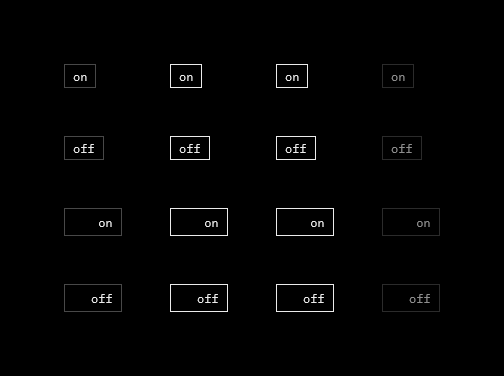
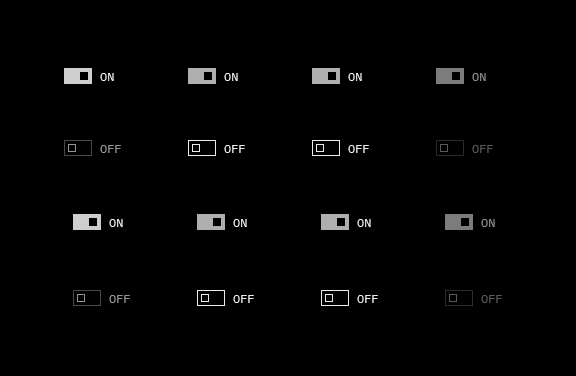
docs: describe the toggle as a square switch and refresh its card pictures
The design dossier's toggle section and the Toggle card now say what the
switch looks like, why it is 28 by 16 (it fits the 8ch field column with
its word) and that it has no keyboard focus, like the other controls.

diff --git a/demos/widgets/src/cards/toggle.rs b/demos/widgets/src/cards/toggle.rs
@@ -1,12 +1,13 @@
-//! The Toggle card: on and off, default and wide, in rest, hover, held and disabled
-//! (components/Toggle/preview.html).
+//! The Toggle card: the square switch with its word, on and off, default and wide, in rest, hover, held and
+//! disabled (components/Toggle/preview.html).
 
 use nui_layout::{Dim, Edges};
 use nui_ui::{Theme, ToggleOpts, Ui};
 
 use super::{Block, Card, Cell, State, render};
 
-/// The preview's `minW: '8ch', pad: [5, 9]`: the launcher's `min-width: 8ch` is 57.6 px at its body size.
+/// The preview's `minW: '8ch', pad: [5, 9]`: the launcher's `min-width: 8ch` is 57.6 px at its body size. The
+/// switch stays at the box's left edge, inside the padding.
 fn wide() -> ToggleOpts {
     ToggleOpts { min_w: Dim::Px(57.6), pad: Edges::vh(5.0, 9.0), disabled: false }
 }

diff --git a/docs/design.md b/docs/design.md
@@ -165,7 +165,16 @@ monospaced and a text width is arithmetic (`text_width`, `ADVANCE_EM` 0.6); a le
 warning). `rect(id)` is the widget's absolute rect of the last frame. `button(key, text, ButtonLook) -> Resp` and
 `button_with(key, text, look, ButtonOpts { disabled, grow })`; `Resp { id, rect, hovered, held, clicked }`.
 `toggle(key, &mut bool, on_word, off_word) -> Resp` takes both words, which come from the application's catalog, and flips
-the value before painting. `Theme` holds the page's variables plus `faded(color, opacity)` for CSS opacity.
+the value before painting. It is drawn as a switch, not a box: a square-cornered 28 by 16 frame (`SWITCH_W`, `SWITCH_H`; the kit has no
+rounded corner) with a square 8 px knob 3 px inside the line, and the word beside it, 8 px away and in capitals (the
+widget uppercases the catalog word, as a fold does its title). Off is an outline with an outlined knob on the left, the
+frame in `--edge`, the knob and the word `--muted`. On is the frame filled with `--fill`, the knob on the right in
+`--on-fill`, the word in `--text`. Under the pointer the lines and the word take `--text` and the on fill the primary
+button's `FADE_LIT`; disabled fades everything to `FADE_DISABLED` and takes no click. The box is the switch and its word
+plus `ToggleOpts.pad` and `min_w`, and it does not stretch in a grid cell, so a click anywhere on it flips and one beside
+it does not. 28 + 8 + the 21.6 px of "OFF" is the 8ch (57.6 px) of a setting's field column, which is why the switch is
+that small. It takes no keyboard focus: in this kit only text fields do, and buttons are pointer only (INTERPRETATION:
+a focus ring for every control is a decision of its own). `Theme` holds the page's variables plus `faded(color, opacity)` for CSS opacity.
 
 **As built (step 10).** No slider: neither application has one (see 2.6). `fold(key, title, &mut open, body) -> Resp` and
 `fold_with(.., FoldOpts { grow }, ..)`: the widget uppercases the title as the page's CSS does, draws the 1 px rule, the
